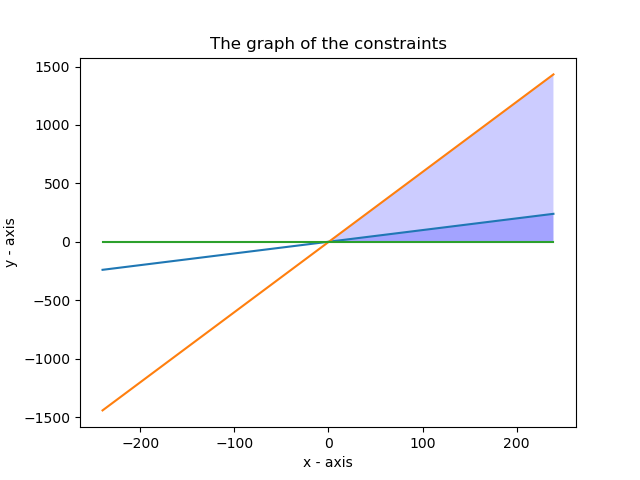
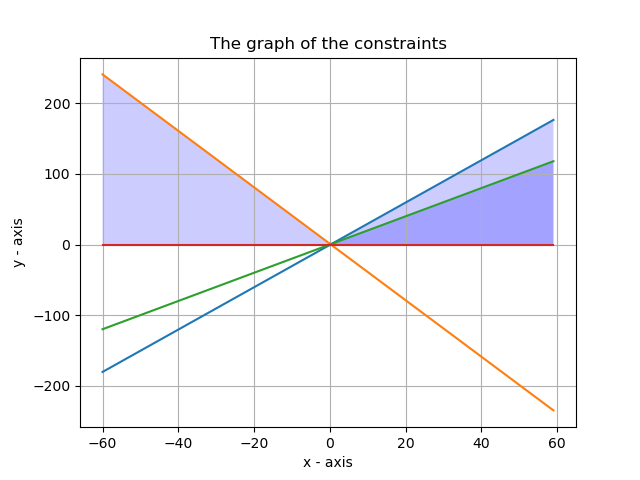
Progra terminada

diff --git a/simple.py b/simple.py
@@ -29,8 +29,9 @@ def show3Dfunction(functions, points_into_the_graphic):
     ax.set_xlabel('X Label')
     ax.set_ylabel('Y Label')
     ax.set_zlabel('Z Label')
-    x = np.linspace(-1,1,10)
-    y = np.linspace(-1,1,10)
+    ax.grid()
+    x = np.linspace(-10000,10000,10)
+    y = np.linspace(-10000,10000,10)
 
     X,Y = np.meshgrid(x*100,y*100)
 
@@ -77,6 +78,7 @@ def show2Dfunction(functions):
     plt.xlabel('x - axis')
     plt.ylabel('y - axis')
     plt.title('The graph of the constraints')
+    plt.grid()
     #print(array_of_functions)
     for i in range(1,len(array_of_functions)):
         plt.fill_between(x,array_of_functions[0], array_of_functions[i], where=(array_of_functions[i] >= 0), facecolor='blue', alpha=0.2)
@@ -190,19 +192,22 @@ def destroywindow(third_window, matrices, changes, plt, matrix_function, dim, fi
 def return_result(matrix_function, dim, plt, first_matrix, third_window):
 
     list = []
-    point = [0] * 10
+    point = [0] * 20
     points_into_the_graphic = [0] * dim
-
+    point_2d = [0] * 20
     for i in matrix_function:
         for j in range(0, dim):
             if int(i[j]) == 1:
                 list.append("X" + str(j+1) + "------>" + str(Fraction(i[-1]).limit_denominator()))
+                point_2d[j] = i[-1]
                 point[j] = Fraction(i[-1]).limit_denominator()
                 points_into_the_graphic[j] = i[-1]
     list.append("Resultado ------>" + str( Fraction(matrix_function[len(matrix_function)-1][len(matrix_function[0])-1]).limit_denominator() ))
     
     if dim == 2:
-        plt.scatter(point[0], point[1], label='Result', color='r')
+        print(point_2d[0])
+        print(point_2d[1])
+        plt.scatter(point_2d[0], point_2d[1], label='Result', color='r')
         plt.savefig('result_graph.png')
 
     return list
